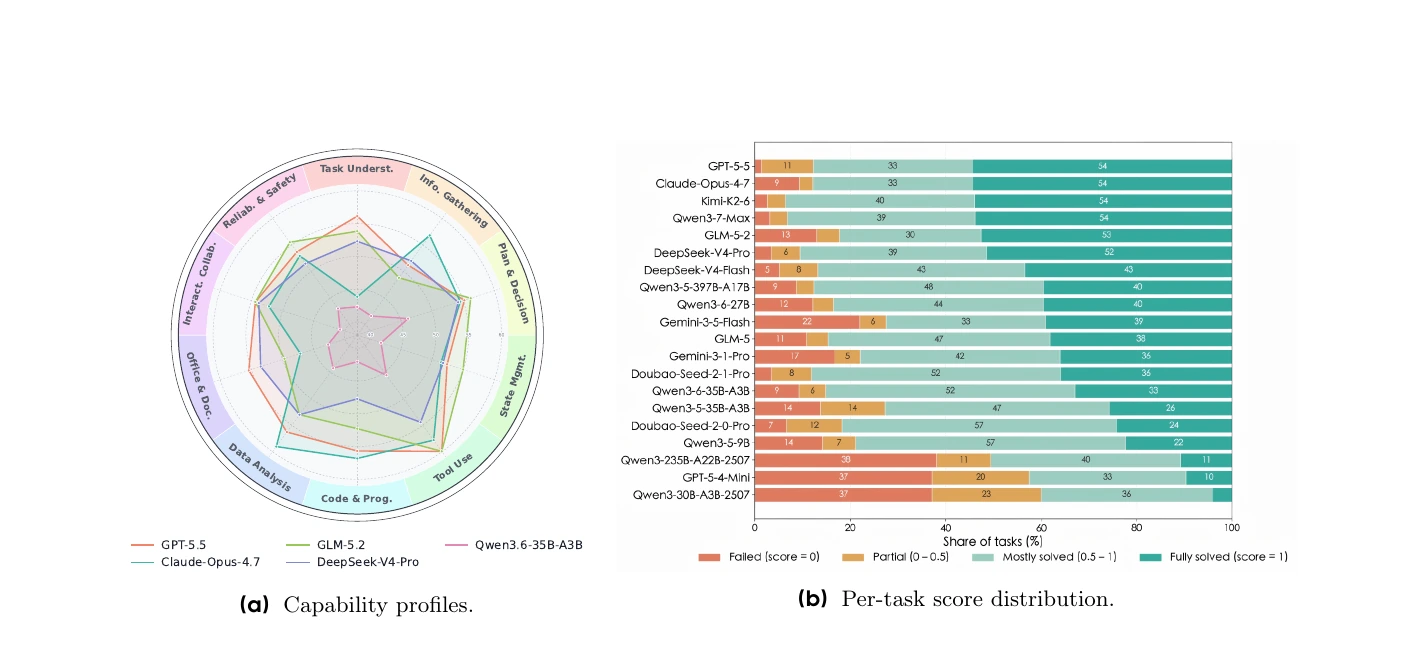
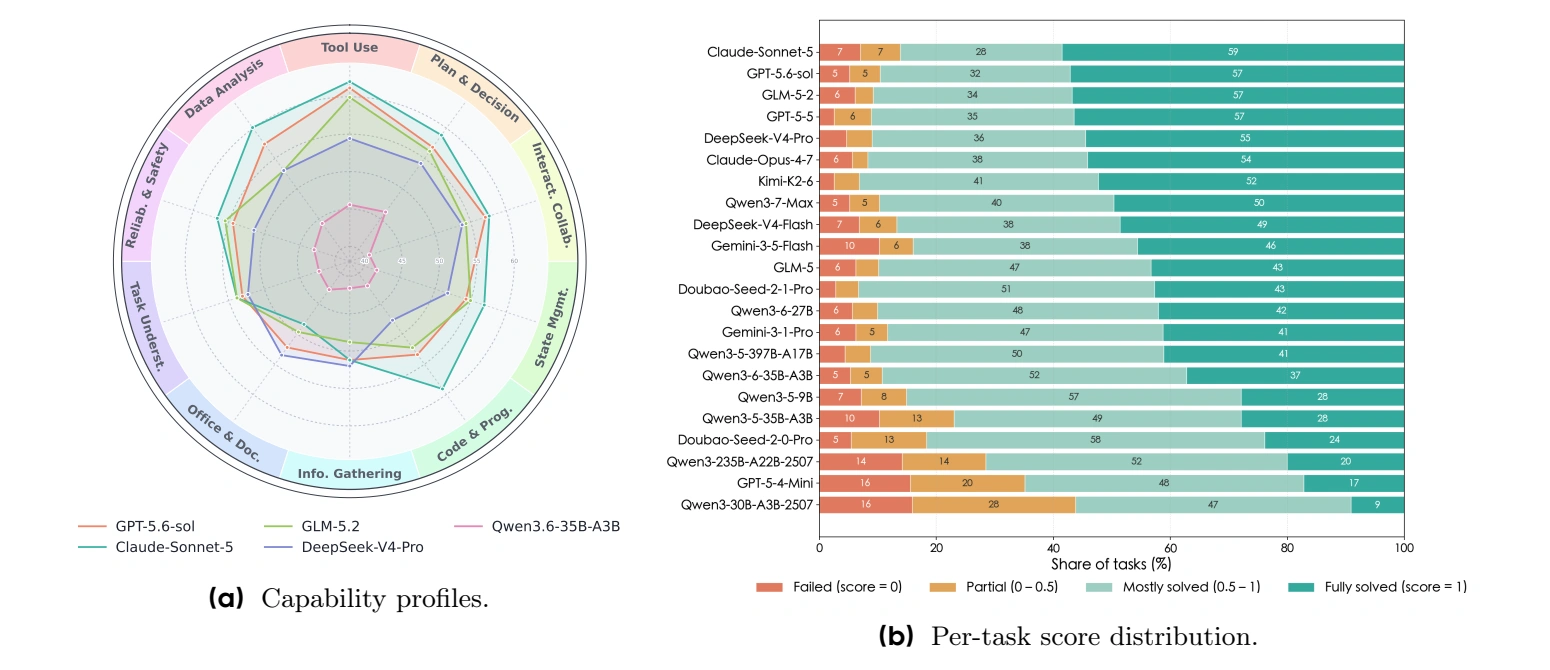
Refresh paper figures from latest manuscript

diff --git a/website/app/page.tsx b/website/app/page.tsx
@@ -551,7 +551,7 @@ export default function Home() {
           <p>Ten capability dimensions reveal where agents succeed, where they fail, and why similar overall scores can conceal different practical strengths.</p>
         </div>
         <div className="analysis-grid">
-          <figure><img src={asset("/figures/capabilities.webp")} alt="Capability profiles and per-task score distributions" /><figcaption>Capability profiles across ten execution dimensions.</figcaption></figure>
+          <figure><img src={asset("/figures/capabilities.webp")} alt="Capability profiles and per-task score distributions" /><figcaption>Capability profiles across ten execution dimensions and per-task score distributions.</figcaption></figure>
           <figure><img src={asset("/figures/scenarios.webp")} alt="Model performance across scenario splits" /><figcaption>Pass@1 across ToB, ToC, and ToE scenario splits.</figcaption></figure>
         </div>
         <div className="capability-tags" aria-label="Ten capability dimensions">
